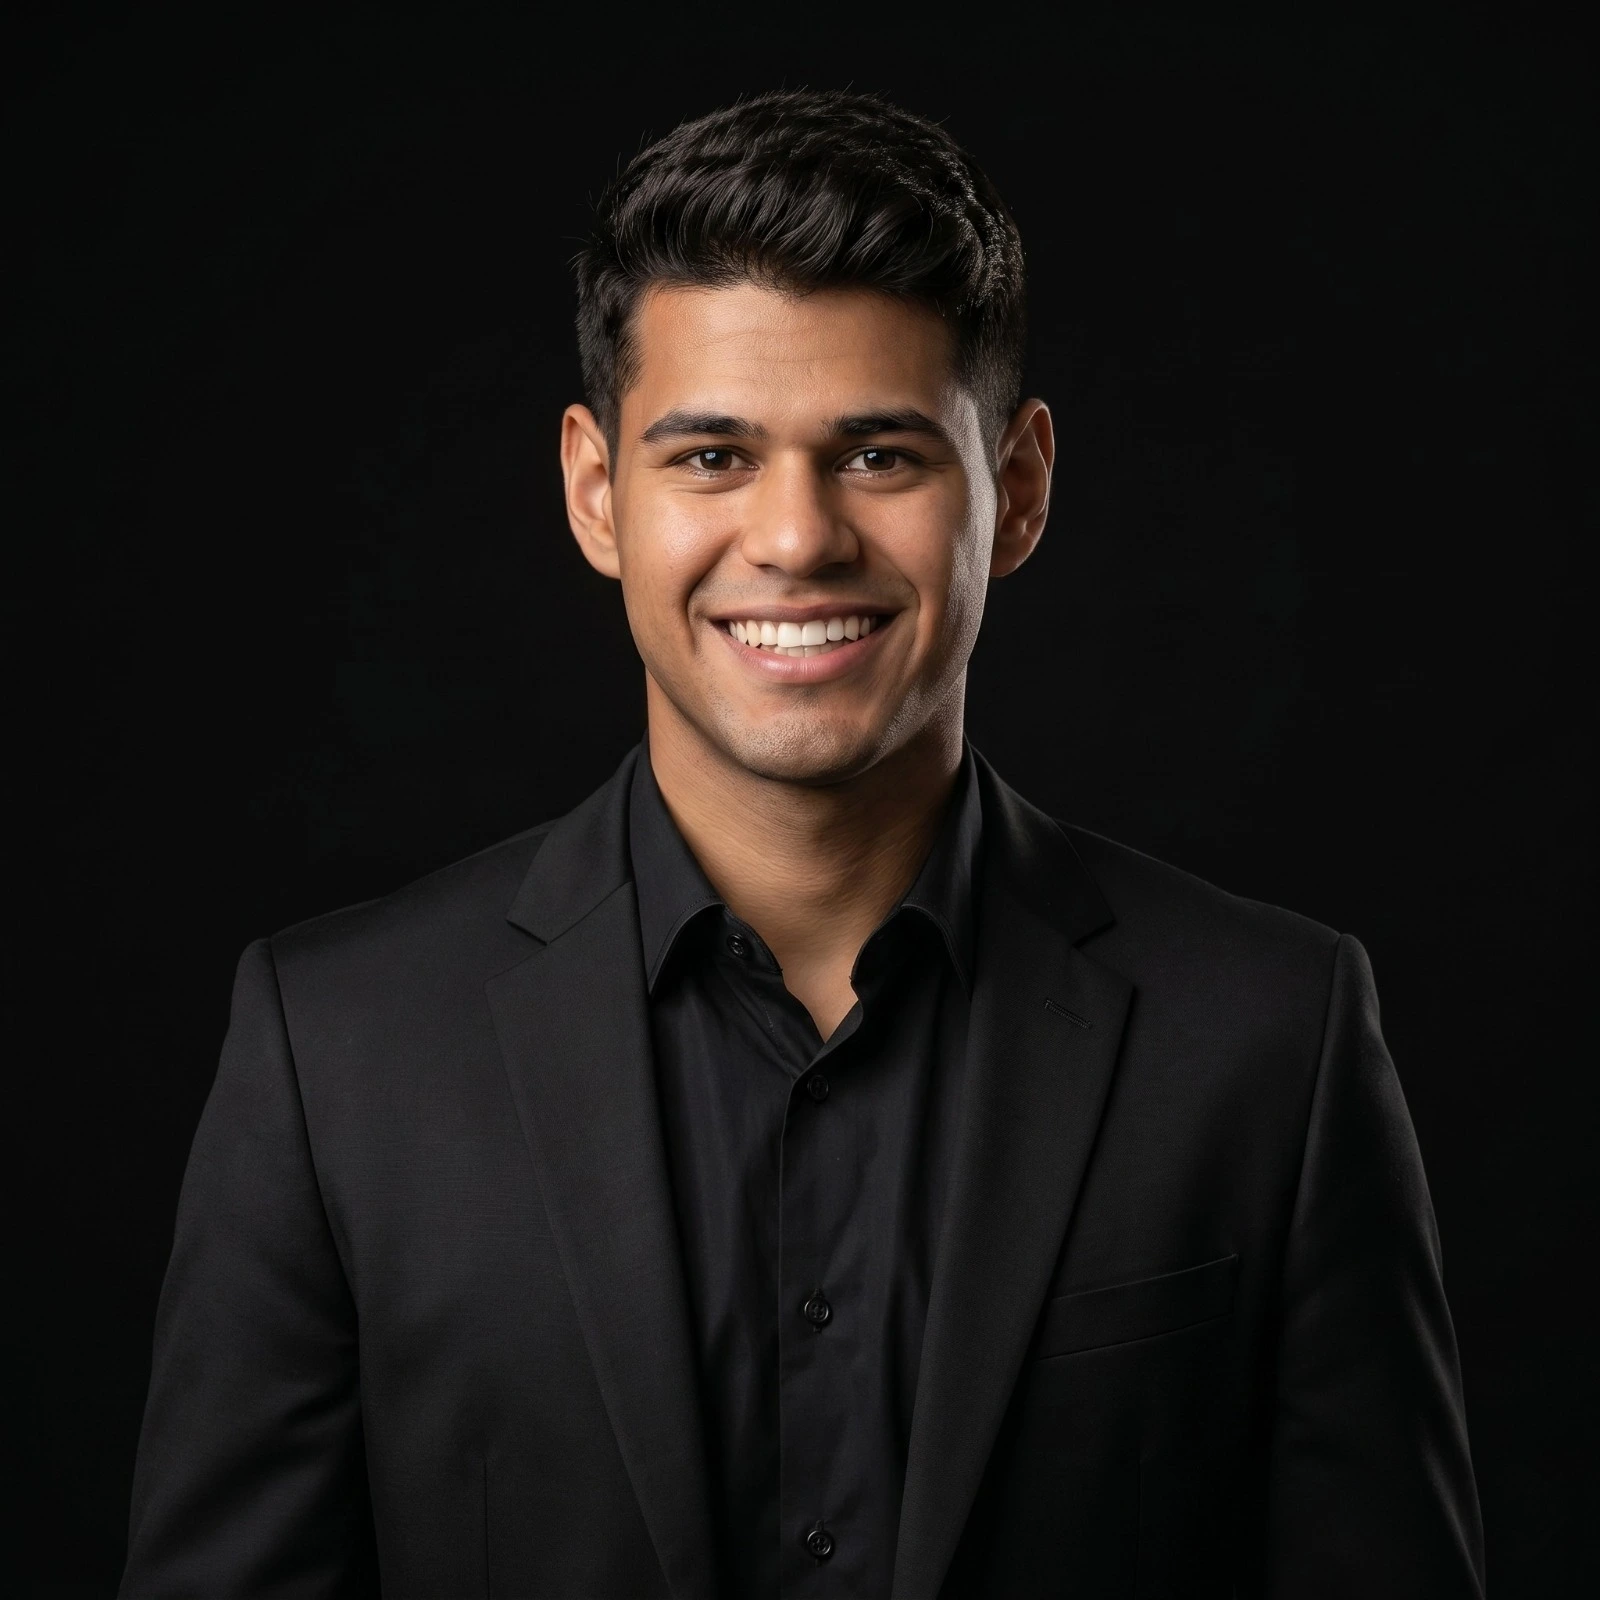
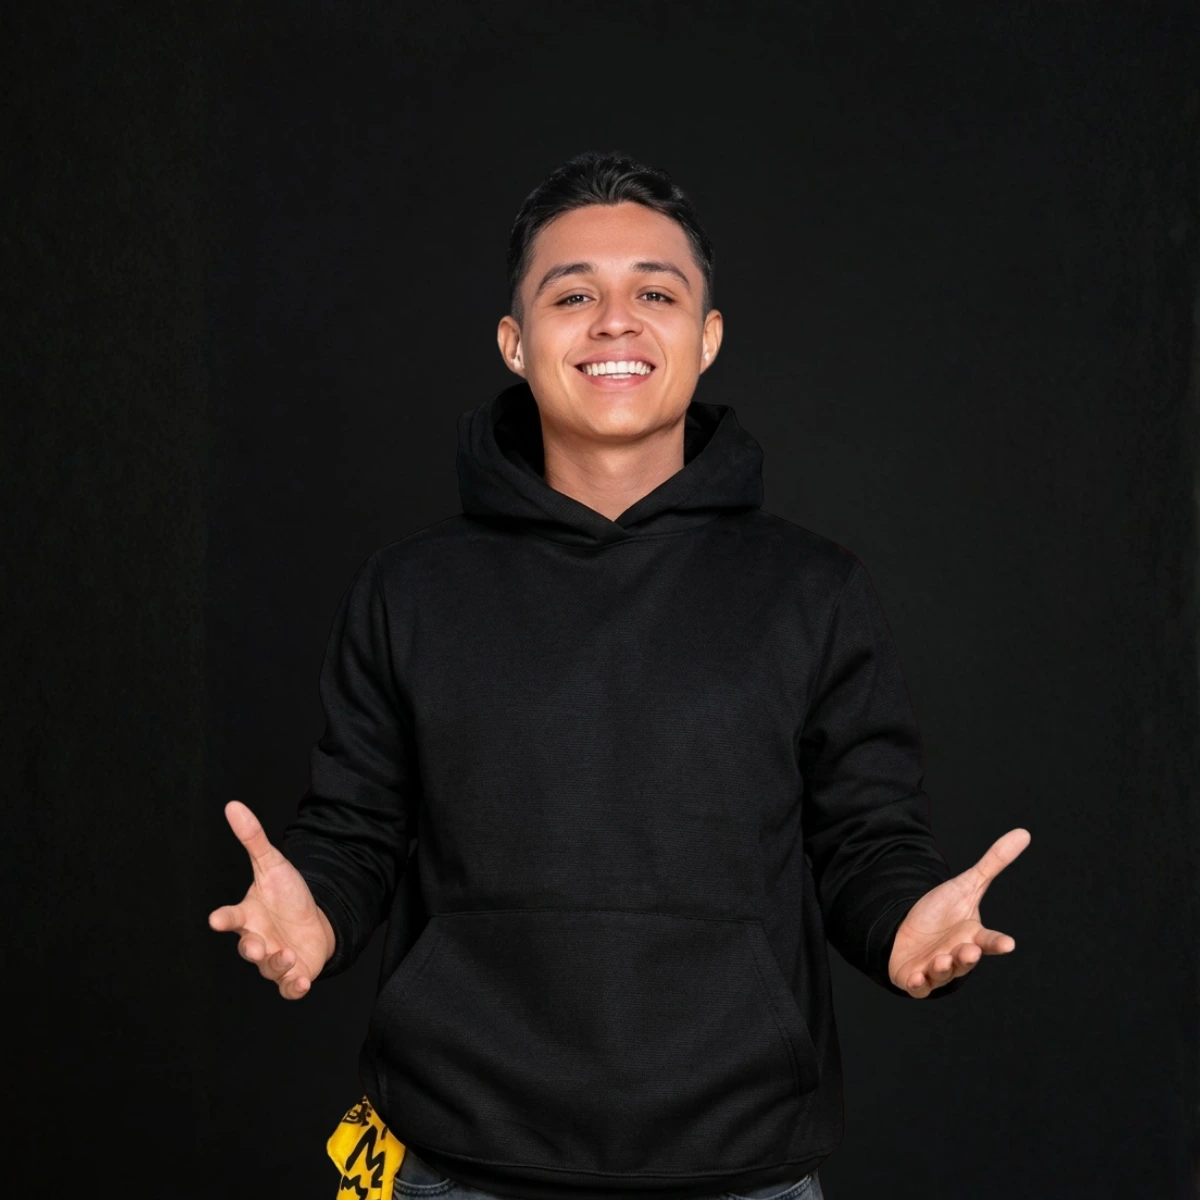
fix images and some bugs add seo and contact

diff --git a/src/app/(layout)/equipo/page.tsx b/src/app/(layout)/equipo/page.tsx
@@ -7,16 +7,16 @@ import { Globe, Cpu, ArrowRight } from "lucide-react";
 const team = [
   {
     name: "Andrés Ricaurte",
-    role: "CEO & Estratega de Negocios",
+    role: "CEO & BUSINESS MARKETING STRATEGIST",
     description:
-      "Especialista en escalabilidad empresarial y optimización de ventas con enfoque estratégico. Lidero la visión del Método CRACS para que factures predeciblemente sin sacrificar tu tiempo.",
+      "Consultor y estratega de marketing Con IA. Transformo procesos manuales en sistema de ventas automatizados Que escalan tu facturación. Humanizamos tu marca y te posicionamos como referente en tu sector Más clientes, más tiempo libre y más resultados medibles. Simple. Yo construyo. Tú cobras.",
     image: "/AndresRicaurteTeams.webp",
     skills: ["Estrategia", "Ventas", "Liderazgo", "Negocios"],
     icon: Globe,
   },
   {
     name: "Gerardo Andrés Ramírez",
-    role: "Fullstack & Mobile Engineer",
+    role: "FULLSTACK & MOBILE ENGINEER",
     description:
       "Ingeniero experto en integrar Inteligencia Artificial y desarrollar arquitecturas web/móviles de alto rendimiento. Convierto las estrategias de marketing en sistemas tecnológicos escalables que trabajan 24/7.",
     image: "/Gerardo.webp",
@@ -25,7 +25,7 @@ const team = [
   },
   {
     name: "Luisa Vargas",
-    role: "Content Creator & Branding",
+    role: "CONTENT CREATOR & BRANDING SPECIALIST",
     description:
       "Creativa encargada de humanizar la marca y conectar con la audiencia a través de storytelling de impacto. Diseño la identidad visual que hace que tu negocio no pase desapercibido en el mundo digital.",
     image: "/Luisa.webp",
@@ -34,7 +34,7 @@ const team = [
   },
   {
     name: "Carlos Ricaurte",
-    role: "Filmmaker & UGC Creator",
+    role: "FILMMAKER & UGC CREATOR",
     description:
       "Especialista en producción audiovisual enfocada en contenido UGC que convierte. Combina narrativa visual, tendencias digitales y ejecución ágil para crear piezas auténticas que conectan y venden.",
     image: "/CarlosRicaurte.webp",
@@ -43,11 +43,20 @@ const team = [
   },
   {
     name: "Isaac Beleño",
-    role: "Drone Operator & Filmmaker",
+    role: "DRONE OPERATOR & FILMMAKER",
     description:
       "Operador de drone certificado y filmmaker con enfoque cinematográfico. Captura tomas aéreas de alto impacto y las integra con storytelling visual para elevar la percepción de marca.",
     image: "/Isaac.webp",
     skills: ["Drone", "Cinematografía", "Video", "Producción"],
+    icon: Globe,
+  },
+  {
+    name: "Valentina Bolaños",
+    role: "STRATEGIC OPERATIONS COORDINATOR",
+    description:
+      "Especialista en optimización de procesos y estrategia operativa que maximiza la eficiencia. Combina analisis de datos, integracion de equipos y ejecucion agil para impulsar resultados sostenibles y escalables.",
+    image: "/ValentinaBolaños.webp",
+    skills: ["Optimización", "Estrategia", "Gestion", "Datos"],
     icon: Globe,
   },
 ];
@@ -174,7 +183,7 @@ export default function NosotrosPage() {
                       <motion.span
                         key={skill}
                         variants={skillItem}
-                        className="px-4 py-2 bg-on-surface/5 text-on-surface font-semibold text-sm rounded-xl border border-on-surface/10 hover:bg-primary/10 hover:text-primary hover:border-primary/20 transition-colors"
+                        className="px-4 py-2 bg-on-surface/5 text-on-surface font-semibold text-sm rounded-xl border border-on-surface/10 hover:bg-primary/10 hover:text-primary hover:border-primary/20 transition-colors cursor-pointer"
                       >
                         {skill}
                       </motion.span>

diff --git a/src/components/sections/TeamSection.tsx b/src/components/sections/TeamSection.tsx
@@ -7,7 +7,7 @@ import { Globe, Cpu } from "lucide-react";
 const team = [
   {
     name: "Andrés Ricaurte",
-    role: "CEO & Estratega de Negocios",
+    role: "CEO & BUSINESS MARKETING STRATEGIST",
     description:
       "Especialista en escalabilidad empresarial y optimización de ventas con enfoque estratégico.",
     image: "/AndresRicaurteTeams.webp",
@@ -15,7 +15,7 @@ const team = [
   },
   {
     name: "Gerardo Ramírez",
-    role: "Fullstack & Mobile Engineer",
+    role: "FULLSTACK & MOBILE ENGINEER",
     description:
       "Ingeniero experto en integrar Inteligencia Artificial y desarrollar arquitecturas web/móviles de alto rendimiento.",
     image: "/Gerardo.webp",
@@ -23,7 +23,7 @@ const team = [
   },
   {
     name: "Luisa Vargas",
-    role: "Content Creator & Branding",
+    role: "CONTENT CREATOR & BRANDING SPECIALIST",
     description:
       "Creativa encargada de humanizar la marca y conectar con la audiencia a través de storytelling de impacto.",
     image: "/Luisa.webp",
@@ -31,7 +31,7 @@ const team = [
   },
   {
     name: "Carlos Ricaurte",
-    role: "Filmmaker & UGC Creator",
+    role: "FILMMAKER & UGC CREATOR",
     description:
       "Especialista en producción audiovisual enfocada en contenido UGC que convierte. Combina narrativa visual, tendencias digitales y ejecución ágil para crear piezas auténticas que conectan y venden.",
     image: "/CarlosRicaurte.webp",
@@ -39,11 +39,19 @@ const team = [
   },
   {
     name: "Isaac Beleño",
-    role: "Drone Operator & Filmmaker",
+    role: "DRONE OPERATOR & FILMMAKER",
     description:
       "Operador de drone certificado y filmmaker con enfoque cinematográfico. Captura tomas aéreas de alto impacto y las integra con storytelling visual para elevar la percepción de marca.",
     image: "/Isaac.webp",
     skills: ["Drone", "Cinematografía", "Video", "Producción"],
+  },
+  {
+    name: "Valentina Bolaños",
+    role: "STRATEGIC OPERATIONS COORDINATOR",
+    description:
+      "Especialista en optimización de procesos y estrategia operativa que maximiza la eficiencia. Combina analisis de datos, integracion de equipos y ejecucion agil para impulsar resultados sostenibles y escalables.",
+    image: "/ValentinaBolaños.webp",
+    skills: ["Optimización", "Estrategia", "Gestion", "Datos"],
   },
 ];
 
@@ -77,7 +85,7 @@ export default function TeamSection() {
               whileInView={{ opacity: 1, y: 0 }}
               viewport={{ once: true }}
               transition={{ delay: index * 0.15 }}
-              className="group rounded-3xl p-8 border border-slate-100 soft-shadow hover:border-primary transition-all duration-300 flex flex-col h-full bg-inverse-surface/60 bg-white "
+              className="group rounded-3xl p-8 border border-slate-100 soft-shadow hover:border-primary transition-all duration-300 flex flex-col h-full bg-inverse-surface/60 bg-white cursor-pointer"
             >
               {/* TOP CONTENT */}
               <div className="flex flex-col flex-grow">

diff --git a/src/components/ui/WhatsAppButton.tsx b/src/components/ui/WhatsAppButton.tsx
@@ -1,0 +1,30 @@
+import Link from "next/link";
+import React from "react";
+
+export default function WhatsAppButton() {
+  const phoneNumber = "573012255826";
+  const message = "Hola Andrés, me gustaría saber más sobre tus servicios.";
+  const whatsappUrl = `https://wa.me/${phoneNumber}?text=${encodeURIComponent(message)}`;
+
+  return (
+    <Link
+      href={"/contacto"}
+      rel="noopener noreferrer"
+      // tailwind classes para fijarlo abajo a la derecha, redondearlo y darle color/efecto hover
+      className="fixed bottom-6 right-6 z-50 flex h-14 w-54 items-center justify-center rounded-full bg-[#25D366] text-white shadow-lg transition-transform hover:scale-110 hover:shadow-xl"
+      aria-label="Contactar por WhatsApp"
+    >
+      <svg
+        xmlns="http://www.w3.org/2000/svg"
+        width="20"
+        height="20"
+        fill="currentColor"
+        className="bi bi-whatsapp"
+        viewBox="0 0 16 16"
+      >
+        <path d="M13.601 2.326A7.85 7.85 0 0 0 7.994 0C3.627 0 .068 3.558.064 7.926c0 1.399.366 2.76 1.057 3.965L0 16l4.204-1.102a7.9 7.9 0 0 0 3.79.965h.004c4.368 0 7.926-3.558 7.93-7.93A7.9 7.9 0 0 0 13.6 2.326zM7.994 14.521a6.6 6.6 0 0 1-3.356-.92l-.24-.144-2.494.654.666-2.433-.156-.251a6.56 6.56 0 0 1-1.007-3.505c0-3.626 2.957-6.584 6.591-6.584a6.56 6.56 0 0 1 4.66 1.931 6.56 6.56 0 0 1 1.928 4.66c-.004 3.639-2.961 6.592-6.592 6.592m3.615-4.934c-.197-.099-1.17-.578-1.353-.646-.182-.065-.315-.099-.445.099-.133.197-.513.646-.627.775-.114.133-.232.148-.43.05-.197-.1-.836-.308-1.592-.985-.59-.525-.985-1.175-1.103-1.372-.114-.198-.011-.304.088-.403.087-.088.197-.232.296-.346.1-.114.133-.198.198-.33.065-.134.034-.248-.015-.347-.05-.099-.445-1.076-.612-1.47-.16-.389-.323-.335-.445-.34-.114-.007-.247-.007-.38-.007a.73.73 0 0 0-.529.247c-.182.198-.691.677-.691 1.654s.71 1.916.81 2.049c.098.133 1.394 2.132 3.383 2.992.47.205.84.326 1.129.418.475.152.904.129 1.246.08.38-.058 1.171-.48 1.338-.943.164-.464.164-.86.114-.943-.049-.084-.182-.133-.38-.232" />
+      </svg>
+      <span className="ml-2">Hablar con Andres</span>
+    </Link>
+  );
+}

diff --git a/src/app/sitemap.ts b/src/app/sitemap.ts
@@ -1,0 +1,62 @@
+import { MetadataRoute } from "next";
+import { client } from "@/sanity/lib/client"; // Importación de tu cliente de Sanity existente
+
+export default async function sitemap(): Promise<MetadataRoute.Sitemap> {
+  // Define tu URL base de producción (idealmente usando variables de entorno)
+  const baseUrl =
+    process.env.NEXT_PUBLIC_SITE_URL || "https://andresricaurte.com";
+
+  // 1. Definición de Rutas Estáticas
+  const staticRoutes: MetadataRoute.Sitemap = [
+    {
+      url: `${baseUrl}`,
+      lastModified: new Date(),
+      changeFrequency: "daily",
+      priority: 1.0,
+    },
+    {
+      url: `${baseUrl}/servicios`,
+      lastModified: new Date(),
+      changeFrequency: "weekly",
+      priority: 0.8,
+    },
+    {
+      url: `${baseUrl}/blog`,
+      lastModified: new Date(),
+      changeFrequency: "daily",
+      priority: 0.7,
+    },
+    {
+      url: `${baseUrl}/equipo`,
+      lastModified: new Date(),
+      changeFrequency: "monthly",
+      priority: 0.5,
+    },
+    {
+      url: `${baseUrl}/contacto`,
+      lastModified: new Date(),
+      changeFrequency: "monthly",
+      priority: 0.5,
+    },
+  ];
+
+  // 2. Obtención de Rutas Dinámicas del Blog desde Sanity
+  // Ajusta el '_type == "blog"' si en tu esquema de Sanity el post usa otro nombre (ej: "post")
+  let blogRoutes: MetadataRoute.Sitemap = [];
+  try {
+    const blogPosts = await client.fetch<{ slug: string }[]>(
+      `*[_type == "blog" && defined(slug.current)] { "slug": slug.current }`,
+    );
+    blogRoutes = blogPosts.map((post) => ({
+      url: `${baseUrl}/blog/${post.slug}`,
+      lastModified: new Date(),
+      changeFrequency: "weekly",
+      priority: 0.6,
+    }));
+  } catch (error) {
+    console.error("Error fetching blog slugs for sitemap:", error);
+  }
+
+  // Combinar todas las rutas indexables
+  return [...staticRoutes, ...blogRoutes];
+}

diff --git a/src/components/sections/HeroSection.tsx b/src/components/sections/HeroSection.tsx
@@ -27,11 +27,6 @@ export default function HeroSection() {
             animate={{ opacity: 1, y: 0 }}
             transition={{ duration: 0.8, ease: "easeOut" }}
           >
-            {/* <div className="w-full justify-center flex lg:justify-start">
-              <span className="inline-block bg-secondary-container text-on-secondary-container px-4 py-1.5 rounded-full text-xs font-semibold mb-6 uppercase tracking-widest font-label ">
-                Andrés Ricaurte | ESTRATEGIA - INNOVACIÓN - RESULTADOS
-              </span>
-            </div> */}
             <h1 className="text-5xl md:text-4xl lg:text-5xl xl:text-6xl font-extrabold text-on-surface leading-[1.05] mb-8 font-headline tracking-tight md:text-center lg:text-left">
               <span className="text-primary">
                 Consultoría de Marketing e Inteligencia Artificial:{" "}
@@ -40,7 +35,7 @@ export default function HeroSection() {
             </h1>
             <p className="text-lg md:text-xl  text-secondary mb-10 max-w-xl leading-relaxed md:text-center lg:text-left mx-auto">
               Transformamos la forma en que adquieres clientes. A través del
-              <strong> Método CRACS</strong>, automatizamos tus procesos de
+              <strong> Método MASpro</strong>, automatizamos tus procesos de
               ventas con Inteligencia Artificial sin perder tu esencia humana.
               El resultado: escalas tu facturación de forma predecible,
               reduciendo el tiempo de seguimiento y profesionalizando tus

diff --git a/src/app/(layout)/contacto/page.tsx b/src/app/(layout)/contacto/page.tsx
@@ -208,12 +208,20 @@ export default function ContactPage() {
                   onChange={handleChange}
                   className="w-full px-5 py-4 rounded-xl bg-on-surface/5 border border-on-surface/10 focus:border-primary/50 focus:bg-surface focus:ring-4 focus:ring-primary/10 transition-all outline-none text-on-surface font-medium cursor-pointer"
                 >
-                  <option value="Método CRACS">Método CRACS</option>
-                  <option value="Método MASPro">Método MASPro</option>
-                  <option value="Consultoría 1a1">
-                    Consultoría Privada 1a1
-                  </option>
                   <option value="Conferencias/Charlas">Conferencias</option>
+                  <option value="Sistema de Ventas con IA">
+                    Sistema de Ventas con IA
+                  </option>
+                  <option value="Consultoría Estratégica 1:1">
+                    Consultoría Estratégica 1:1
+                  </option>
+                  <option value="Reputación Digital (SEO & IA)">
+                    Reputación Digital (SEO & IA)
+                  </option>
+                  <option value="WhatsApp Marketing">WhatsApp Marketing</option>
+                  <option value="Gestión de Redes Sociales & Ads">
+                    Gestión de Redes Sociales & Ads
+                  </option>
                 </select>
               </div>
 

diff --git a/src/app/layout.tsx b/src/app/layout.tsx
@@ -1,7 +1,6 @@
 import type { Metadata } from "next";
 import { Inter } from "next/font/google";
 import "./globals.css";
-import Navbar from "@/components/layout/Navbar";
 
 const inter = Inter({
   variable: "--font-inter",
@@ -13,6 +12,24 @@ export const metadata: Metadata = {
   title: "Andrés Ricaurte | Estratega en Marketing y Ventas con IA",
   description:
     "Factura más con un sistema de marketing y ventas automatizadas.",
+  metadataBase: new URL("https://andresricaurte.com"),
+  openGraph: {
+    title: "Andrés Ricaurte | Estratega en Marketing y Ventas",
+    description:
+      "Factura más con un sistema de marketing y ventas automatizadas.",
+    url: "https://andresricaurte.com",
+    siteName: "Andrés Ricaurte",
+    images: [
+      {
+        url: "/AndresRicaurteTeams.webp",
+        width: 1822,
+        height: 2256,
+        alt: "Andrés Ricaurte Portada",
+      },
+    ],
+    locale: "es_CO",
+    type: "website",
+  },
 };
 
 export default function RootLayout({

diff --git a/src/app/(layout)/blog/[slug]/Clientpage.tsx b/src/app/(layout)/blog/[slug]/Clientpage.tsx
@@ -86,7 +86,7 @@ export default function BlogArticle({ post }: { post: Blog }) {
             {data?.mainImage && (
               <motion.div
                 variants={imageZoomVariants}
-                className="relative w-full aspect-[16/9] md:aspect-[21/9] overflow-hidden rounded-[2rem] shadow-2xl border border-primary/10"
+                className="relative w-full aspect-[16/9] overflow-hidden rounded-[2rem] shadow-2xl border border-primary/10"
               >
                 <img
                   src={urlFor(data.mainImage).url()}

diff --git a/src/components/sections/MethodSection.tsx b/src/components/sections/MethodSection.tsx
@@ -33,7 +33,7 @@ export default function MethodSection() {
         >
           <h2 className="text-4xl font-extrabold text-inverse-on-surface mb-8 font-headline tracking-tight">
             ¿Quién está detrás del{" "}
-            <span className="text-primary">Método Mas Pro</span>?
+            <span className="bg-primary">Método Mas Pro</span>?
           </h2>
           <div className="space-y-6 text-lg text-inverse-on-surface/80 leading-relaxed">
             <p>

diff --git a/src/app/(layout)/layout.tsx b/src/app/(layout)/layout.tsx
@@ -1,6 +1,7 @@
 import type { Metadata } from "next";
 import { Inter } from "next/font/google";
 import Navbar from "@/components/layout/Navbar";
+import WhatsAppButton from "@/components/ui/WhatsAppButton";
 
 const inter = Inter({
   variable: "--font-inter",
@@ -23,6 +24,7 @@ export default function RootLayout({
     <>
       <Navbar />
       <main>{children}</main>
+      <WhatsAppButton />
     </>
   );
 }

diff --git a/src/app/robots.ts b/src/app/robots.ts
@@ -1,0 +1,15 @@
+import { MetadataRoute } from "next";
+
+export default function robots(): MetadataRoute.Robots {
+  const baseUrl =
+    process.env.NEXT_PUBLIC_SITE_URL || "https://andresricaurte.com";
+
+  return {
+    rules: {
+      userAgent: "*",
+      allow: "/",
+      disallow: ["/studio/"], // Evita que Google indexe el CMS
+    },
+    sitemap: `${baseUrl}/sitemap.xml`,
+  };
+}
